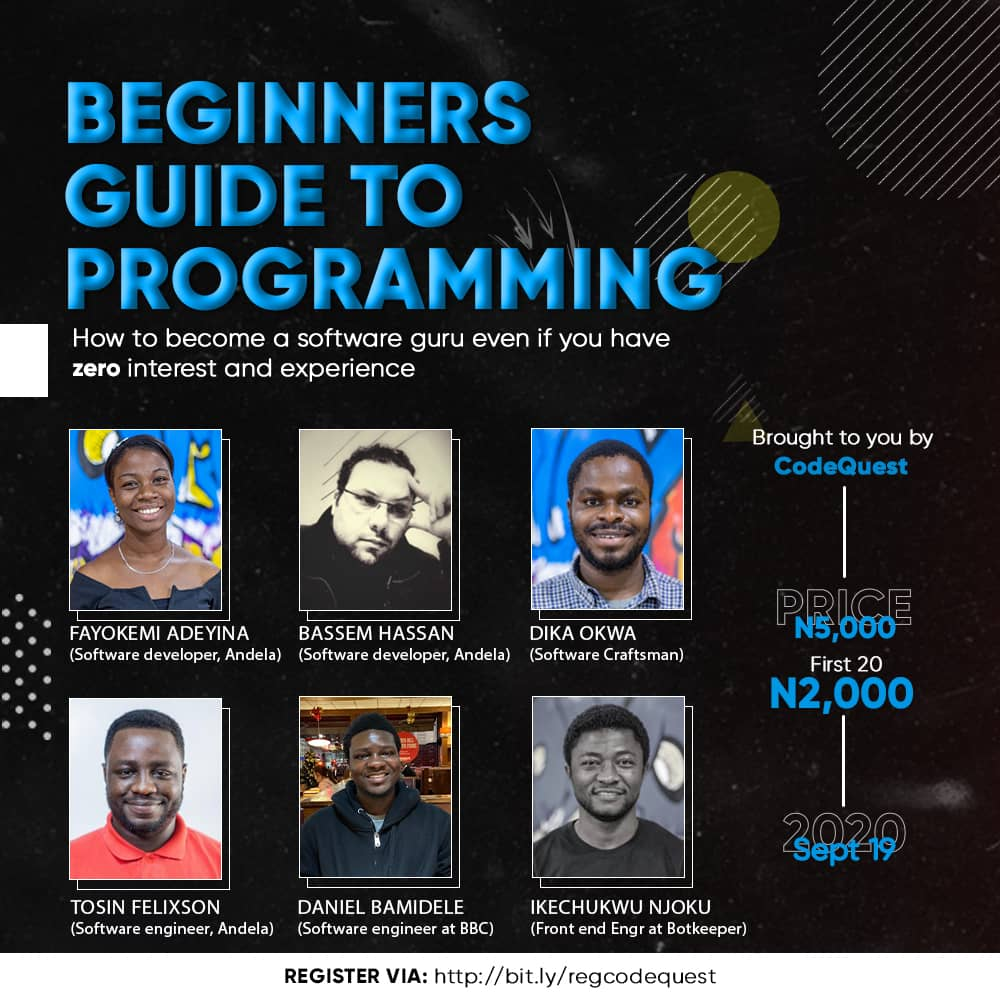
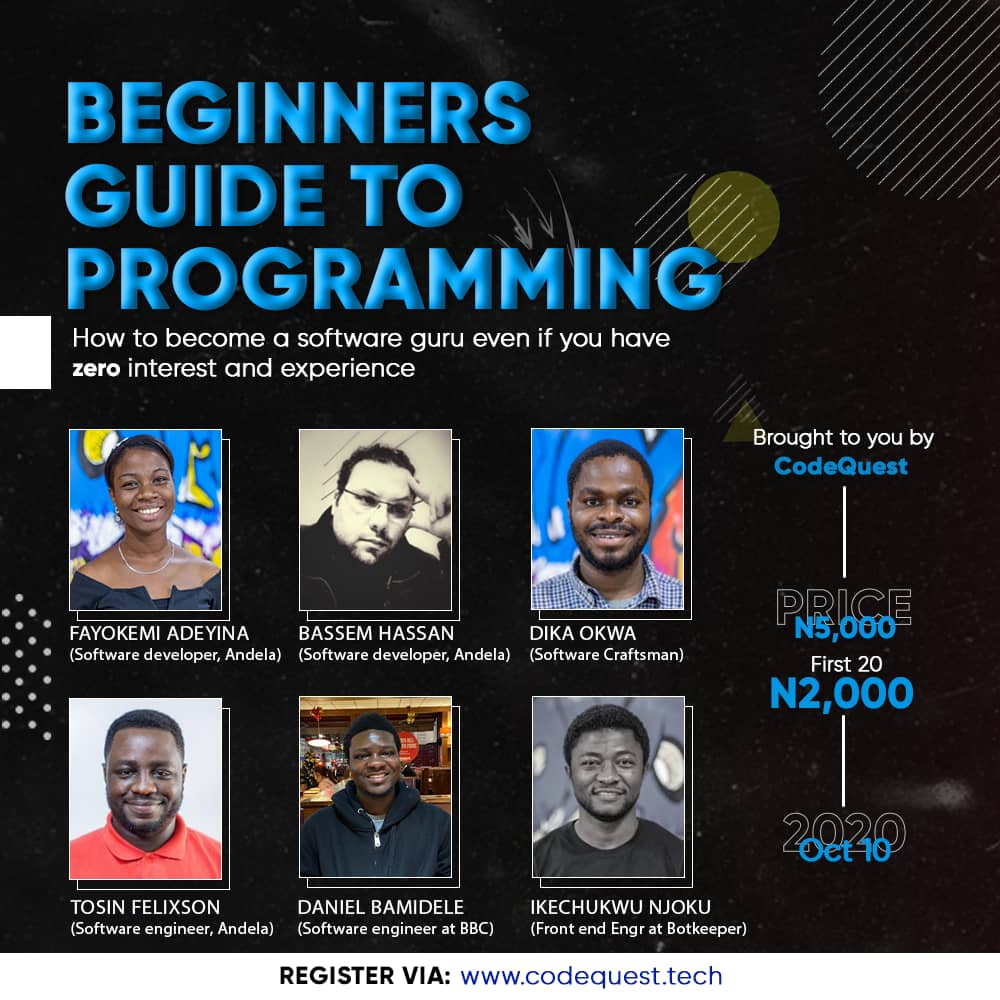
make page responsive

diff --git a/src/components/Event.jsx b/src/components/Event.jsx
@@ -8,11 +8,7 @@ export const Event = () => {
       <div className='container'>
         <div className='row'>
           <div className='col-xs-12'>
-            <img
-              src={eventImg}
-              className='img-responsive'
-              alt=''
-            />
+            <img src={eventImg} className='img-responsive' alt='' />
             <div className='card-container'>
               <div className='text-center'>
                 <h1 className='h2'>001 : Online Webinar</h1>
@@ -34,12 +30,27 @@ export const Event = () => {
                   </button>
                 </p>
               </div>
-              <p>
-                An online Programming Webinar for all beginners who would love
+                <li>An online Programming Webinar for all beginners who would love
                 to discover the truth behind becoming sucessful in building a
-                Software Career and pursuing it at any cost
-              </p>
-
+                Software Career and pursuing it at any cost. </li>
+                <ul>
+                <li>As a major part of our vision to raise great nerds, we would be most privileged to
+                have you allow us invest in your future and dreams of becoming
+                the great Nerd you have always seen in your visions.</li>                
+                <li>To begin, click the link above to register for our upcoming webinar coming up on the 10th
+                of October.</li>
+                <li>After payment, a mail will be forwarded to to your
+                account confirming your registeration and then we will send you
+                an invite link on Zoom. </li>
+                <li>We will also be giving you an E-book
+                containing the details shared in the session.</li> 
+                <li>There'd be lots of opportunity to ask questions from any one of the facilitators. </li>
+                This is only the beginning of the great plans codequest has towards acheiving
+                your vision. 
+                </ul>
+                <em>This can't be all! </em>
+                <br/>
+                More details about our next move will be unveiled during the webinar.
               <blockquote>
                 <p>
                   "The great quest of life has always been to discover truth."

diff --git a/public/index.html b/public/index.html
@@ -1,21 +1,23 @@
 <!DOCTYPE html>
 <html lang="en">
-  <head>
-    <meta charset="utf-8" />
-    <link rel="icon" href="%PUBLIC_URL%/favicon.ico" />
-    <meta name="viewport" content="width=device-width, initial-scale=1" />
-    <meta name="theme-color" content="#000000" />
-    <meta
-      name="description"
-      content="Web site created using create-react-app"
-    />
-    <link rel="apple-touch-icon" href="%PUBLIC_URL%/logo192.png" />
-    <!--
+
+<head>
+  <meta charset="utf-8" />
+  <link rel="icon" href="./logo192.png" />
+  <meta name="viewport" content="width=device-width, initial-scale=1" />
+  <meta name="theme-color" content="#000000" />
+  <meta
+    content="Code Quest is an online mentorship platform that gives you an adventurous experience that helps you scale through your career as a Software Engineer"
+    name="description" />
+  <link rel="code-quest-logo" href="./logo192.png" />
+  <link href="./logo512.png" rel="icon">
+
+  <!--
       manifest.json provides metadata used when your web app is installed on a
       user's mobile device or desktop. See https://developers.google.com/web/fundamentals/web-app-manifest/
     -->
-    <link rel="manifest" href="%PUBLIC_URL%/manifest.json" />
-    <!--
+  <link rel="manifest" href="%PUBLIC_URL%/manifest.json" />
+  <!--
       Notice the use of %PUBLIC_URL% in the tags above.
       It will be replaced with the URL of the `public` folder during the build.
       Only files inside the `public` folder can be referenced from the HTML.
@@ -24,12 +26,13 @@
       work correctly both with client-side routing and a non-root public URL.
       Learn how to configure a non-root public URL by running `npm run build`.
     -->
-    <title>React App</title>
-  </head>
-  <body>
-    <noscript>You need to enable JavaScript to run this app.</noscript>
-    <div id="root"></div>
-    <!--
+  <title>Code Quest</title>
+</head>
+
+<body>
+  <noscript>You need to enable JavaScript to run this app.</noscript>
+  <div id="root"></div>
+  <!--
       This HTML file is a template.
       If you open it directly in the browser, you will see an empty page.
 
@@ -39,5 +42,6 @@
       To begin the development, run `npm start` or `yarn start`.
       To create a production bundle, use `npm run build` or `yarn build`.
     -->
-  </body>
+</body>
+
 </html>

diff --git a/src/components/index.css b/src/components/index.css
@@ -35,12 +35,13 @@ video {
   display: inline-block;
   vertical-align: baseline;
 }
-.hero-full-container {
-    background-image: url('../assets/images/hom.jpg');
-    background-position: center!important;
+.background-image-container {
+  background-image: url('../assets/images/hom.jpg');
+  background-position: center !important;
+  width: 100%
 }
-.header-style{
-    padding: 0;
+.header-style {
+  padding: 0;
 }
 .btn-class {
   border-radius: 8px;
@@ -50,7 +51,7 @@ video {
   padding: 5px;
 }
 
-.btn-class:hover{
+.btn-class:hover {
   opacity: 0.8;
 }
 audio:not([controls]) {
@@ -491,6 +492,7 @@ p {
   .lead {
     font-size: 16.5px;
   }
+  
 }
 .small,
 small {
@@ -1214,8 +1216,8 @@ pre code {
     margin-left: 83.33333%;
   }
   .col-sm-offset-11 {
-}
-    margin-left: 91.66667%;
+  }
+  margin-left: 91.66667%;
   .col-sm-offset-12 {
     margin-left: 100%;
   }
@@ -3455,7 +3457,7 @@ tbody.collapse.in {
   margin-bottom: 19px;
   border: 1px solid transparent;
 }
-.navbar li{
+.navbar li {
   color: red;
 }
 .navbar:after,
@@ -3902,7 +3904,12 @@ fieldset[disabled] .navbar-default .btn-link:hover {
 .navbar-inverse {
   background-color: transparent;
   border-color: transparent;
+  position: absolute
 }
+.navbar-inverse li a {
+  color: #fff !important;
+}
+
 .navbar-inverse .navbar-brand {
   color: #9d9d9d;
 }
@@ -4771,9 +4778,7 @@ body.minimal {
   border: none;
   padding: 0;
 }
-.hero-full-container {
-  height: 100vh;
-}
+
 .hero-full-container h1 {
   font-family: Roboto, Helvetica, Arial, sans-serif;
   font-weight: 900;
@@ -4822,6 +4827,12 @@ body.minimal {
 @media (max-width: 768px) {
   .section-container:first-of-type {
     padding-top: 30px;
+  }
+  .background-image-container {
+   width: 110%;
+  }
+  .btn-class{
+    width: 350px;
   }
 }
 .background-image-container {

diff --git a/src/components/Header.jsx b/src/components/Header.jsx
@@ -1,12 +1,22 @@
-import React from 'react'
+import React, { useState } from 'react'
 import { Link } from 'react-router-dom'
 import './index.css'
 
 export const Header = () => {
+  const [open, setOpen] = useState(false)
+  const [btnVisible, setBtnVisible] = useState(false)
+  const toggleBtn = () => {
+    setOpen(!open)
+    setBtnVisible(true)
+  }
   const currentUrl = window.location.href
   const getLastIndex = currentUrl.substring(currentUrl.lastIndexOf('/') + 1)
   return (
-    <nav className={`navbar navbar-fixed-top ${getLastIndex ? 'navbar-default' : 'navbar-inverse'} `}>
+    <nav
+      className={`navbar navbar-fixed-top ${
+        getLastIndex ? 'navbar-default' : 'navbar-inverse'
+      } `}
+    >
       <div className='container'>
         <button
           type='button'
@@ -14,13 +24,16 @@ export const Header = () => {
           data-toggle='collapse'
           data-target='#navbar-collapse'
           aria-expanded='false'
+          onClick={toggleBtn}
         >
           <span className='sr-only'>Toggle navigation</span>
           <span className='icon-bar'></span>
           <span className='icon-bar'></span>
           <span className='icon-bar'></span>
         </button>
-        <div className='collapse navbar-collapse' id='navbar-collapse'>
+        <div
+          className={`${!open && btnVisible ? 'collapse' : 'navbar-collapse'}`}
+        >
           <ul className='nav navbar-nav'>
             <li>
               <Link to='/'>01 : Home</Link>

diff --git a/src/components/about.jsx b/src/components/about.jsx
@@ -23,14 +23,15 @@ export const About = () => {
                     </p>
                     <h3>Raising Great Nerds</h3>
                     <p>
-                      With great passion, tools and technical expertise, we put
-                      would invest in your future and dreams of becoming the
+                      With great passion, tools and technical expertise, we 
+                      would be most privileged to have you allow us 
+                      invest in your future and dreams of becoming the
                       great Nerd you have always seen in your visions
                     </p>
                     <h3>We have the Best Mentors</h3>
                     <p>
                       We put in a lot of work and trainings to ensure that we
-                      offer the best training service to our students/trainees
+                      offer the best training service to our partners.
                     </p>
                   </div>
                   <div className='col-xs-12 col-md-6'>

diff --git a/src/components/Home.jsx b/src/components/Home.jsx
@@ -14,13 +14,13 @@ export const Home = () => {
                   <h1>
                     <br />
                     <div>
-                      <span>
+                      <span id='typed-strings'>
                         Begin Setting Up Your Career Path In Software
                         Development In 60 Days Or Less
                       </span>
                     </div>
-                    <Link to="/events">
-                      <button className='btn-class'>Click Here to Begin</button>
+                    <Link to='/events'>
+                      <button className='btn-class'>Click Here To Begin</button>
                     </Link>
                   </h1>
                 </div>

diff --git a/src/components/Events.jsx b/src/components/Events.jsx
@@ -30,7 +30,8 @@ export const Events = () => {
                         <p>
                           An online Programming Webinar training for all
                           beginners who would love to build a career in Software
-                          Development{' '}
+                          Development.  
+
                         </p>
                         <Link to='/event' className='btn btn-default'>
                           Discover

diff --git a/src/index.css b/src/index.css
@@ -1,5 +1,6 @@
 body {
-  margin: 0;
+  margin: 0!important;
+  padding: 0!important;
   font-family: -apple-system, BlinkMacSystemFont, 'Segoe UI', 'Roboto', 'Oxygen',
     'Ubuntu', 'Cantarell', 'Fira Sans', 'Droid Sans', 'Helvetica Neue',
     sans-serif;
